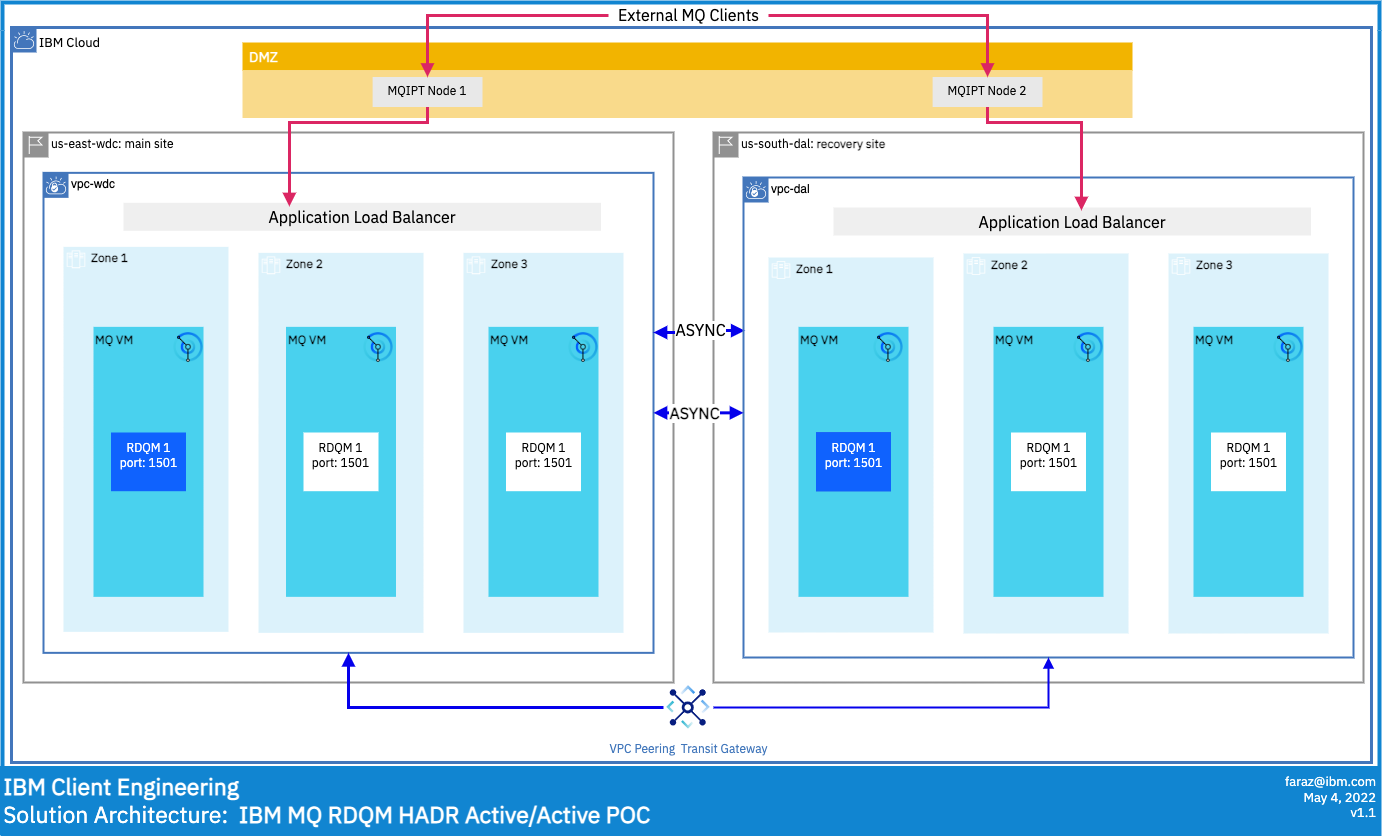
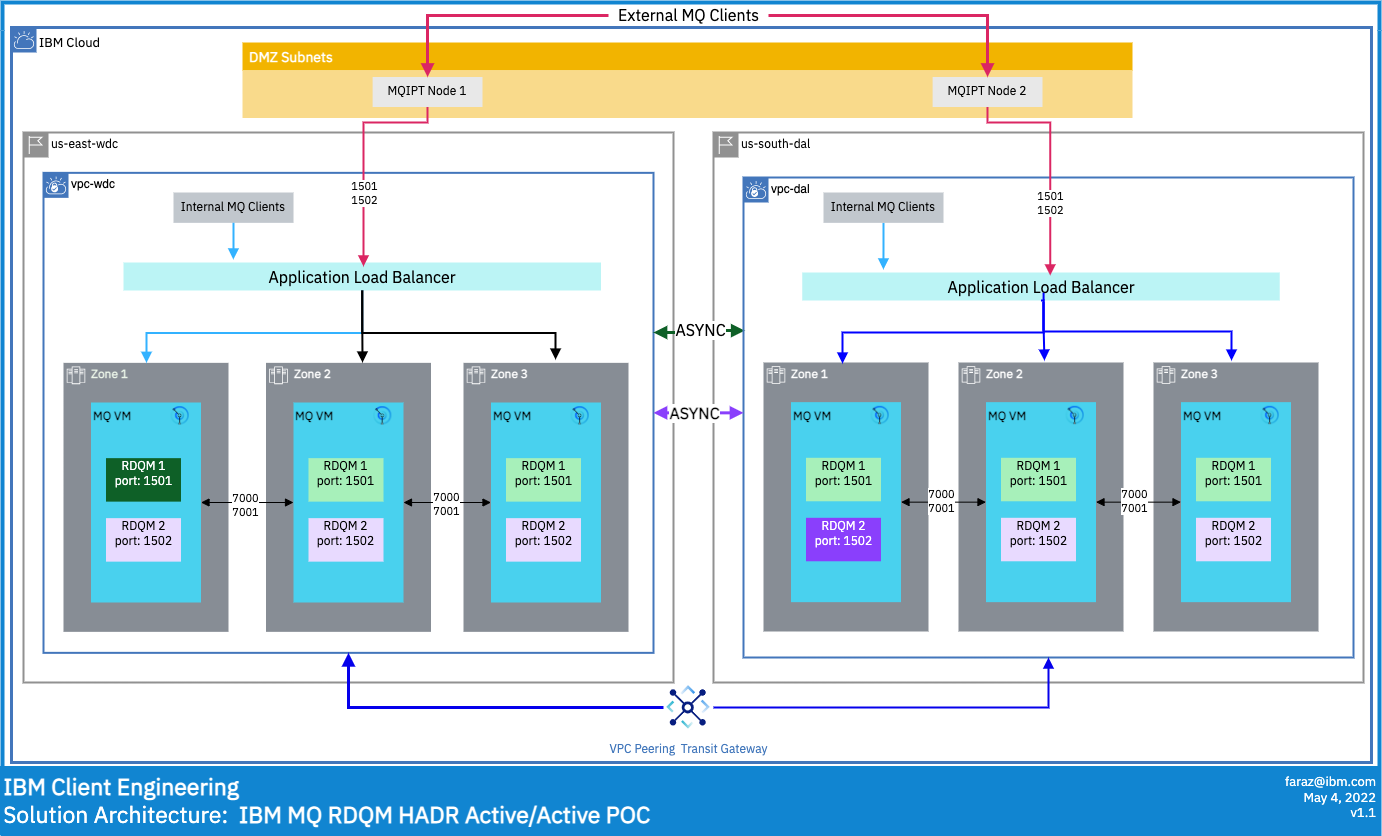
added updates

diff --git a/readme.md b/readme.md
@@ -9,7 +9,6 @@
 * 5. [Deployment](#Deployment)
 * 6. [Security](#Security)
 * 7. [Cost](#Cost)
-* 8. [Risks and Technical Debts](#RisksandTechnicalDebts)
 * 9. [Testing](#Testing)
 
 <!-- vscode-markdown-toc-config
@@ -30,7 +29,7 @@ The goal of this project is to demonstrate the following proposed topologies in 
 - Overall guidance on security exits
 - Delivery over other mechanisms, not just MQ server
 - Multiple availability zones across multiple clouds
-- 
+-
 Doing this would be great, because we will:
 - Validate MQIPT use cases
 - Enhance productivity and user experience by how easy it is to define and deploy
@@ -43,9 +42,11 @@ Doing this would be great, because we will:
 
 ##  3. <a name='Overview'></a>Overview
 
-This solution architecture demonstrates how you can deploy the Replicated Data Queue Manager in a Highly Available, Disaster Recovery enabled configuration across two isolated regions (MZRs in IBM Cloud or Regions in AWS).
+This solution architecture demonstrates how you can deploy the Replicated Data Queue Manager in a Highly Available, Disaster Recovery enabled configuration across two regions that are interconnected/peered by a construct like the Transit Gateway(MZRs in IBM Cloud or Regions in AWS).
 
-- MQIPT nodes are setup in the DMZ to accept traffic from the internet and proxy the traffic to Application Load Balancer that in turn will direct the traffic to the active RDQM instance in one of the three active zones.
+- MQIPT nodes are setup in a DMZ subnet that is able to accept traffic from the internet on port `1501` and `1502`. The IPT nodes proxy the traffic to an Application Load Balancer that in turn will direct the traffic to the active RDQM instance in one of the three active zones.
+
+
 
 ##  4. <a name='BuildingBlockView'></a>Building Block View
 
@@ -62,7 +63,7 @@ This document serves as a documented process for installing IBM MQ and RDMQ boun
 In order to build out our setup, we are assuming three hosts that live in three different zones in a Dallas region and three hosts in three zones living in the Washington DC region . Our bastion host will also live in WDC and that's where we'll base our primary HA stack. We also assume root access via ssh to all hosts here. The OS on the mq hosts for our purposes will be **Red Hat 8.4**. We will also assume they are properly subscribed.
 
 ```
-10.241.1.4      wdc-bastion      
+10.241.1.4      wdc-bastion
 
 # WDC mq hosts
 10.241.0.4	        wdc1-mq1
@@ -99,7 +100,7 @@ IBM MQ installation recommends multiple separate disks for various aspects of MQ
 
 ```
 groupadd -g 1001 mqm
-useradd -g mqm -u 1001 -m -c "MQM User" mqm 
+useradd -g mqm -u 1001 -m -c "MQM User" mqm
 ```
 2. Update mqm user's bashrc and bash profile. These paths don't exist as of yet until the actual installation of MQ.
 ```
@@ -111,7 +112,7 @@ echo 'export PATH=$PATH:/opt/mqm/bin:/opt/mqm/samp/bin:' >> ~mqm/.bash_profile
 3. Update `/etc/sudoers` with the correct permissions for mqm user
 ```
 echo "%mqm ALL=(ALL) NOPASSWD: /opt/mqm/bin/crtmqm,/opt/mqm/bin/dltmqm,/opt/mqm/bin/rdqmadm,/opt/mqm/bin/rdqmstatus" >> /etc/sudoers
-``` 
+```
 4. **OPTIONAL** - for ease of use and communication, you can create an ssh key for the `mqm` user and propagate it across the nodes in each stack. This isn't required, but it can mean you might only need to run some commands on the primary node in each stack and it will run the appropriate commands on each node behind the scenes.
 
     On Node 1:
@@ -264,7 +265,7 @@ Let's break down these commands:
 - **`-sx`** - Replicated data HA Primary queue manager. This is run only on a primary node where you want the queue to live.
 - **`-rr [p,s]`** - This is region specific. When you create your DR Queue, you would use "p" for the region you want to be DR Primary and "s" for the region you want to be standby. If you accidentally use "p" for both regions, your clusters will not talk to each other.
 - **`-rl`**  `10.241.0.4,10.241.64.4,10.241.128.4` - Specifies the local ip address(es) to be used for DR replication of this queue manager. Basically your local region nodes go here.
-- **`-ri`**  `10.240.0.4,10.240.64.4,10.240.128.4` - Specifies the IP address of the interface used for replication on the server hosting the secondary instance of the queue manager. Basically your remote region's nodes. 
+- **`-ri`**  `10.240.0.4,10.240.64.4,10.240.128.4` - Specifies the IP address of the interface used for replication on the server hosting the secondary instance of the queue manager. Basically your remote region's nodes.
 - **`-rp 7001`** - Specifies the port to use for DR replication. We're using port 7001 in this example.
 - **`-fs 3072M`** - Specifies the size of the filesystem to create for the queue manager - that is, the size of the logical volume which is created in the drbdpool volume group. Another logical volume of that size is also created, to support the reverting to snapshot operation, so the total storage for the DR RDQM is just over twice that specified here.
 
@@ -328,11 +329,11 @@ This queue service listener should be active on port 1501 on the primary node in
 You can test failover with the following commands:
 
 ```
-This tells the first node in the WDC region to become DR standby for the DRHAQM1 queue service 
+This tells the first node in the WDC region to become DR standby for the DRHAQM1 queue service
 [root@wdc1-mq1 ~]# rdqmdr -s -m DRHAQM1
 
 
-This tells the first node in the DAL region to become DR primary for the DRHAQM1 queue service 
+This tells the first node in the DAL region to become DR primary for the DRHAQM1 queue service
 [root@dal1-mq1 ~]# rdqmdr -p -m DRHAQM1
 ```
 
@@ -408,9 +409,9 @@ MQIPT accepts a TLS from a queue manager or a client, the certificate is validat
 
 - Certificates can be blocked or accepted based on the Distinguished Name.
 - Certificate revocation checking is preformed.
-- A certificate exit can be written to perform additional checks.  
+- A certificate exit can be written to perform additional checks.
 
-![test](./resources/MQIPT_TLS_Security.png)
+![ipt-security-image](./resources/MQIPT_TLS_Security.png)
 
 <b>Advanced Message Security ( AMS )</b> expands IBM MQ security services to provide data signing and encryption at the message level. The expanded services guarantees that message data has not been modified between when it is originally placed on a queue and when it is retrieved. In addition, AMS verifies that a sender of message data is authorized to place signed messages on a target queue.
 
@@ -425,8 +426,7 @@ https://www.ibm.com/docs/en/ibm-mq/9.0?topic=mechanisms-message-security-in-mq
 
 ##  7. <a name='Cost'></a>Cost
 
-##  8. <a name='RisksandTechnicalDebts'></a>Risks and Technical Debts
-
 ##  9. <a name='Testing'></a>Testing
+
 
 # Architecture Decisions
